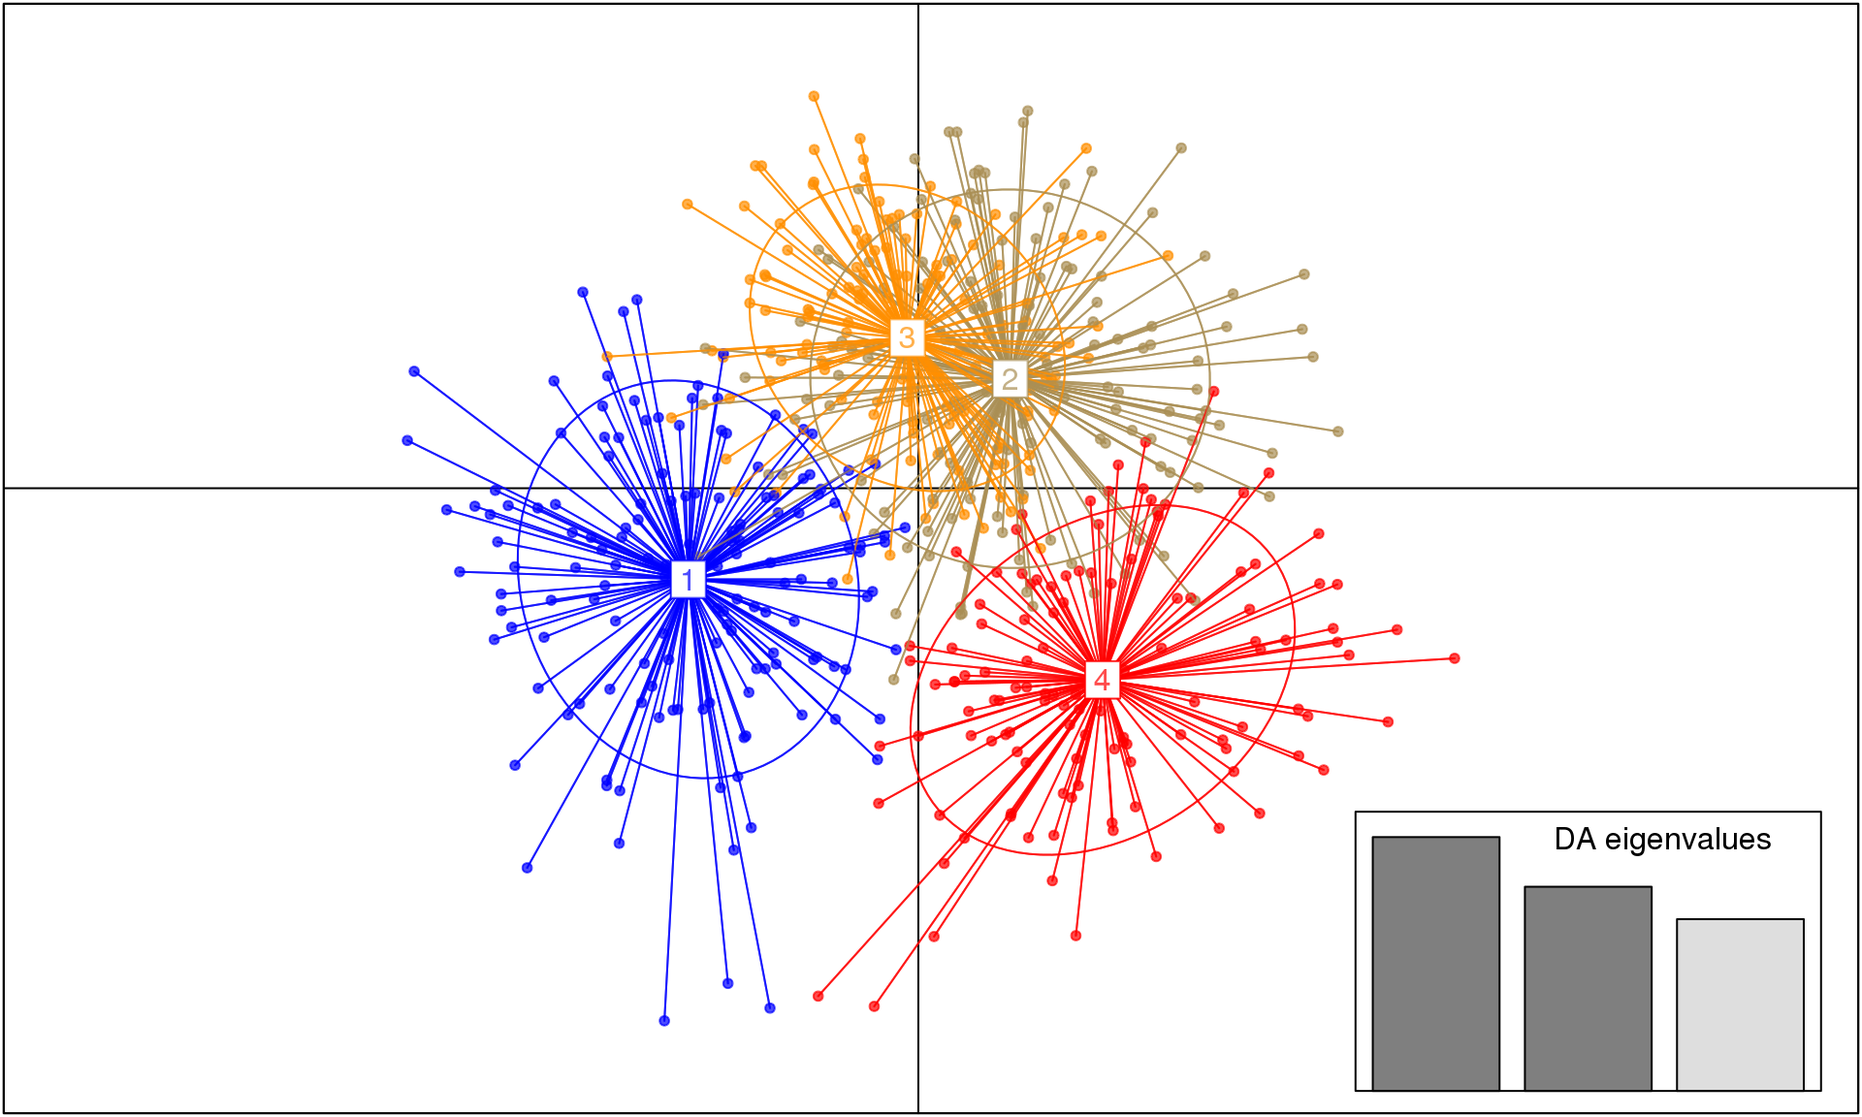
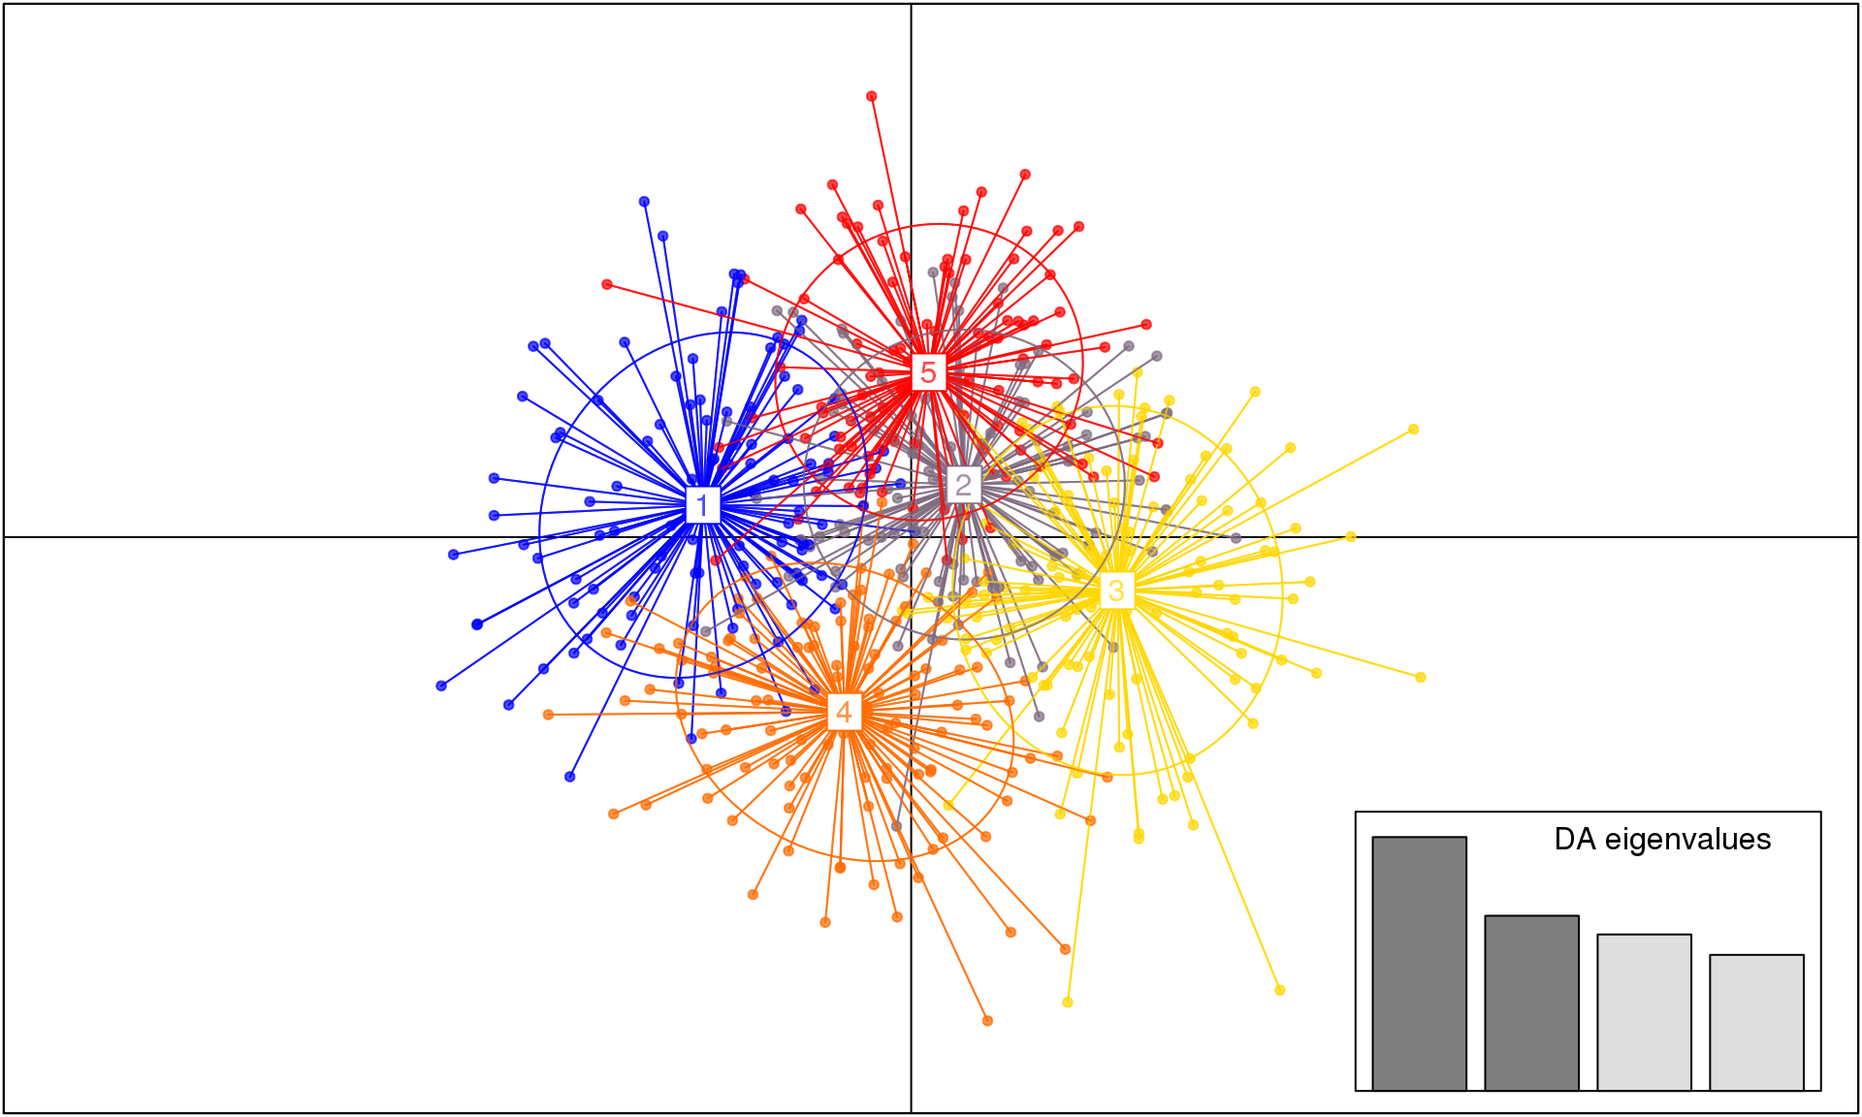
Website rebuild

Changed region(s): [[0.2188, 0.0625, 0.7812, 0.9062], [0.7812, 0.75, 0.9688, 1.0]]

diff --git a/DifferentiationSNP.html b/DifferentiationSNP.html
@@ -867,31 +867,31 @@ Mydata1</code></pre>
 ## county     0.00000000 0.00000000 0.01829604</code></pre>
 <pre class="sourceCode r"><code class="sourceCode r"><span class="kw">test.g</span>(loci, <span class="dt">level =</span> population) </code></pre>
 <pre><code>## $g.star
-##   [1] 218.4919 230.8764 244.1057 244.8471 194.1106 282.8481 194.4345
-##   [8] 208.0396 244.1157 218.6589 228.2380 226.1440 219.5991 218.8105
-##  [15] 219.9709 204.3986 260.9962 227.5928 186.0344 222.3399 226.0661
-##  [22] 227.3425 196.4752 221.0286 241.6681 210.1081 213.4373 202.3638
-##  [29] 176.9145 183.6085 240.7720 233.7284 192.4402 204.9190 186.3231
-##  [36] 225.4371 260.1888 226.8071 246.8908 222.9287 254.4683 241.7168
-##  [43] 211.9930 261.4128 197.7208 217.1632 232.8021 230.6632 217.6688
-##  [50] 212.3188 192.7864 220.7806 239.8266 187.9476 231.4353 193.5174
-##  [57] 207.4495 223.6204 216.4061 233.4522 247.9542 244.7583 213.5326
-##  [64] 208.5957 188.0424 210.1030 204.0779 193.5675 255.7895 226.1987
-##  [71] 221.9452 208.6933 215.6302 200.1285 246.9378 223.7031 239.4569
-##  [78] 210.2119 180.4820 230.7350 209.5883 192.0177 245.5034 199.0479
-##  [85] 218.4242 241.4489 223.2615 178.4197 222.6738 197.5080 225.0142
-##  [92] 219.6554 239.5684 215.6177 245.0495 288.0013 208.1600 256.3079
-##  [99] 213.9816 378.7654
+##   [1] 210.6819 262.0225 252.4853 197.6329 214.8009 225.9974 240.6693
+##   [8] 212.8468 207.0486 243.9517 228.9458 241.5535 186.4232 207.3275
+##  [15] 239.1997 219.8290 224.2966 225.8747 228.2805 215.4572 247.1074
+##  [22] 229.4891 234.2735 238.7481 235.6709 231.5572 227.8425 202.1868
+##  [29] 195.8581 248.5710 272.2962 186.8360 208.0480 204.5901 252.8045
+##  [36] 183.2651 227.1359 186.2249 224.5061 226.1237 230.7980 213.7526
+##  [43] 232.3383 231.0418 223.2885 253.6444 245.9737 207.0156 216.2436
+##  [50] 222.6524 209.6080 207.5072 171.6615 217.9410 232.0168 210.2264
+##  [57] 195.9379 242.1593 201.4827 226.2178 232.9992 216.1207 209.4023
+##  [64] 203.9137 210.2846 222.9443 248.6472 230.3976 214.7238 237.0655
+##  [71] 199.2135 210.5541 210.5565 219.0159 227.1251 210.2150 216.3828
+##  [78] 260.1976 225.9513 201.6088 232.3818 244.0187 273.9459 203.9056
+##  [85] 173.0109 192.0752 236.7822 193.6737 229.2017 212.9946 180.9627
+##  [92] 195.4552 215.6008 186.6413 238.9881 236.9864 235.9777 212.2787
+##  [99] 207.7703 378.7654
 ## 
 ## $p.val
 ## [1] 0.01</code></pre>
 <pre class="sourceCode r"><code class="sourceCode r"><span class="kw">test.between</span>(loci, <span class="dt">test.lev =</span> population, <span class="dt">rand.unit =</span> county, <span class="dt">nperm =</span> <span class="dv">30</span>) </code></pre>
 <pre><code>## $g.star
-##  [1] 255.9671 271.1631 252.3139 233.7541 255.3071 285.2955 249.2537
-##  [8] 261.6990 236.5355 265.4871 225.6696 217.9860 243.3172 236.3181
-## [15] 276.0550 258.7288 257.1334 288.1524 239.8817 267.7479 305.3150
-## [22] 229.4014 255.7952 234.9538 247.1080 258.1005 249.4763 271.7440
-## [29] 272.4077 378.7654
+##  [1] 235.8223 236.2609 279.9311 221.4776 242.6591 282.6271 297.4719
+##  [8] 308.4003 256.0027 259.8599 288.5656 285.9060 229.8528 293.5311
+## [15] 321.5757 276.0198 226.0107 263.3779 269.6993 241.3401 294.6467
+## [22] 265.5119 249.3911 288.8366 268.5281 253.8666 291.4539 236.1274
+## [29] 254.5242 378.7654
 ## 
 ## $p.val
 ## [1] 0.03333333</code></pre>
@@ -917,116 +917,116 @@ grp &lt;-<span class="st"> </span><span class="kw">find.clusters</span>(Mydata1,
 <pre><code>## [1] &quot;Kstat&quot; &quot;stat&quot;  &quot;grp&quot;   &quot;size&quot;</code></pre>
 <pre class="sourceCode r"><code class="sourceCode r">grp$grp</code></pre>
 <pre><code>##   1066   2040   4004   4005   4018   6009   6013   7033   7056   7069 
-##      4      3      1      1      4      3      1      1      2      3 
+##      1      5      3      5      1      2      3      3      4      2 
 ##   7088   7105   8001   8061   8068   8076   8120   8195   8203   8222 
-##      1      3      1      1      1      1      4      3      4      1 
+##      3      4      3      5      3      5      1      5      1      3 
 ##   8223   8231   8237   8301   8302   8303   8304   8305   8307   8308 
-##      1      3      3      1      3      3      3      1      3      3 
+##      3      3      2      3      5      2      5      3      2      2 
 ##   8309   8310   8313   8314   8316   8317   8318   8319   8320   8323 
-##      3      4      1      1      1      1      3      1      1      4 
+##      5      1      3      2      3      5      2      3      2      1 
 ##   8324   8327   8328   8329   8330   8332   8333   8334   8335   8336 
-##      4      1      1      1      1      3      3      3      4      2 
+##      1      3      3      2      5      5      5      1      1      5 
 ##   8337   8338   8339   8340   8342   8343   8344   8345   8346   8347 
-##      1      1      1      1      4      4      3      4      4      1 
+##      3      3      3      3      1      5      2      1      1      3 
 ##   8349   8350   8351   8352   8353   8354   8355   8356   8357   8358 
-##      1      1      4      3      1      1      4      3      4      4 
+##      3      3      2      5      3      3      1      2      1      2 
 ##   8364   8365   8366   8367   8368   8369   8370   8371   8372   8373 
-##      4      1      1      3      1      1      3      4      1      1 
+##      1      3      3      2      3      3      5      1      3      3 
 ##   8374   8375   8376   8377   8378   8379   8381   8382   8383   8384 
-##      1      1      4      4      3      3      1      1      4      2 
+##      3      3      1      1      5      5      3      3      3      4 
 ##   8385   8386   8387   8388   8389   8390   8391   8392   8393   8395 
-##      1      1      1      1      3      4      2      1      4      2 
+##      3      5      3      3      2      1      4      3      1      2 
 ##   8400   8402   8403   8559   8565   8567   8568   8569   8570   8571 
-##      1      1      1      4      3      3      3      4      1      4 
+##      3      2      2      1      2      2      5      1      3      1 
 ##   8572   8573   8574   8601   8602   8603   8604   8606   8607   8608 
-##      2      1      3      4      1      2      3      3      4      3 
+##      4      3      5      1      3      4      5      2      1      2 
 ##   8609   8610   8611   8613   8615   8616   8618   8619   8620   8621 
-##      3      2      1      3      2      3      1      2      4      2 
+##      5      4      3      5      2      5      3      5      2      2 
 ##   8622   8624   8626   8628   8629   8630   8631   8633   8634   8635 
-##      1      2      3      1      1      3      4      1      3      1 
+##      5      4      5      3      2      5      1      3      4      5 
 ##   8636   8637   8638   8639   8640   8641   8642   8643   8644   8645 
-##      3      1      3      3      1      3      3      2      1      2 
+##      1      5      2      2      4      2      5      2      5      4 
 ##   8646   8647   8648   8651   8652   8653   8654   8655   8656   8657 
-##      4      1      4      4      3      3      1      3      1      2 
+##      1      3      2      1      2      5      3      2      3      5 
 ##   8658   8659   8660   8661   8662   8663   8664   8667   8669   8670 
-##      4      3      3      3      2      4      2      3      3      1 
+##      5      5      2      2      4      1      4      5      5      3 
 ##   8671   8672   8673   8674   8675   8676   8677   8678   8679   8680 
-##      3      3      1      1      1      4      1      1      1      1 
+##      5      5      2      2      3      1      5      2      3      2 
 ##   8683   8685   8686   8687   8688   8689   8691   8692   8693   8694 
-##      1      2      4      2      4      3      4      4      4      3 
+##      3      4      1      2      1      5      1      1      2      2 
 ##   8695   8696   8697   8698   8699   8700   8701   8702   8703   8704 
-##      1      3      2      2      3      1      4      4      1      3 
+##      3      2      2      4      2      3      1      1      2      5 
 ##   8705   8706   9003   9006   9015  10005  11010  11503  11532  12008 
-##      2      1      1      3      2      1      4      1      2      3 
+##      4      3      5      5      4      5      1      2      3      2 
 ##  12012  14010  14015  22212  68087  68088  68090  68095  68130  68131 
-##      4      1      3      1      4      4      4      2      4      4 
+##      1      3      2      3      1      1      1      4      1      1 
 ##  68133  68134  68135   105A   108A   109B   110B   112C   115B   117B 
-##      1      4      3      2      4      1      4      3      4      1 
+##      5      1      5      4      1      3      1      5      5      3 
 ##   118B    11A   120A   121C   127A   128A   131B   132B   136C   138A 
-##      2      3      3      3      2      2      2      4      3      1 
+##      4      5      2      2      4      2      4      1      4      3 
 ##   139B   140B   141A   142B   144C   145A   146C   147A   149B   150A 
-##      2      2      3      2      2      1      4      2      2      1 
+##      4      4      2      4      4      3      1      2      4      3 
 ##   151A   152B   153B   154C   155B   156C   157A   158B    15A   162A 
-##      3      2      2      2      2      3      2      1      4      3 
+##      5      3      4      4      4      2      4      5      1      2 
 ##   166B    16A   171A   173A   174A    17C   188A   189A   190A   191A 
-##      4      3      3      3      4      3      4      3      2      2 
+##      1      5      2      2      1      5      1      2      3      4 
 ##    19A   205B    20A   212A   213A   217C   219A    21A   220A   224A 
-##      1      2      2      1      4      2      4      2      3      3 
+##      3      4      4      3      5      4      1      4      5      2 
 ##   226C   227C   234B   235A   238A    23A   245B   248A   250C   253A 
-##      4      1      4      2      2      2      1      1      1      1 
+##      1      3      2      4      4      4      2      5      3      5 
 ##   254C   257B   258A   260B   262A   264C   265A   268A   269A   270C 
-##      3      3      2      2      4      3      4      1      4      2 
+##      5      5      4      4      1      5      1      3      1      4 
 ##   271A   272B   275A   276B   277A    27A   281A   282B   283C   285C 
-##      2      1      2      3      3      3      4      2      4      3 
+##      2      3      4      1      5      5      1      4      1      5 
 ##   286B   287C   288C   289A   290C   291C   292C   298B   299C   300C 
-##      1      4      4      2      2      3      4      4      3      2 
+##      3      1      1      2      4      5      1      2      5      4 
 ##   302A   303C   305A   306A   307A   311A   316B   320C   322A   323B 
-##      2      3      2      4      2      3      1      2      1      2 
+##      4      2      4      1      2      4      3      4      3      4 
 ##   324A   326A   327A   328B   329B    32A   330A   331B   332C   334A 
-##      4      2      3      2      2      2      2      2      2      2 
+##      1      5      5      4      4      4      2      4      2      3 
 ##   335A   336A   339B   340A   341C   346A   349B    34A   351A   353C 
-##      3      1      2      2      3      4      3      2      2      1 
+##      5      2      4      4      2      1      5      4      3      3 
 ##   355A    35A   360B   361B   362C   365B   366A   368B   369A    36A 
-##      1      4      2      2      3      1      3      3      2      3 
+##      5      1      4      4      3      3      5      2      4      5 
 ##   370C   371B   372A   373B   375A   377B   378B   379B   382A   383C 
-##      2      1      4      1      2      4      2      1      4      2 
+##      3      1      1      5      3      1      2      2      1      4 
 ##   384A   385B   387A   388B   389A   390B   391C   392A   393C   395A 
-##      2      2      4      4      3      1      2      3      2      1 
+##      2      4      1      1      5      3      4      5      4      3 
 ##   397A   398C   400C   407A   408C   409B   410A   411C   412C   414A 
-##      2      4      3      3      3      3      4      3      2      2 
+##      4      1      2      4      2      2      1      5      2      4 
 ##   415A   416B   417A   418A   419B    41C   420B   421A   422B   423C 
-##      3      3      1      3      3      1      4      2      4      3 
+##      2      1      3      5      5      2      1      3      1      5 
 ##   424B   425B   426B   427C   428C   429B    42A   430B   431B   433B 
-##      3      4      1      4      3      3      2      3      3      4 
+##      2      1      3      1      2      5      2      5      5      1 
 ##   434B   435C   436A    43B   441C   442C   443C   448C   449A   450B 
-##      1      2      2      1      2      3      4      3      2      4 
+##      3      4      4      3      2      2      1      5      4      1 
 ##   451B   459A   461A   463A   469C   470A   471B   481A   483A   484A 
-##      4      2      2      3      1      2      2      4      4      3 
+##      2      4      4      5      5      4      3      1      1      5 
 ##   485A   486B   487C   489B    48B   492C   493A   496B   498B   499A 
-##      1      3      4      2      2      1      3      3      4      3 
+##      3      5      1      4      4      3      2      4      1      4 
 ##    49A   500B   501A   502C   514A   515A   519B   520B   526A   527B 
-##      2      1      2      2      2      4      2      1      1      1 
+##      4      2      4      2      4      1      4      5      2      4 
 ##   528C    52A   531A   532A   533A   534A   535C   536A   539A    53C 
-##      2      2      3      4      2      1      1      2      2      2 
+##      4      4      5      1      4      2      5      4      4      4 
 ##   540A   541A   542C   543C   544B   545A   546C   548C   549A    54C 
-##      1      2      4      2      1      1      4      4      1      3 
+##      3      4      1      4      2      4      1      1      3      5 
 ##   551C   552A   553B   554A   555C   556A   557B   558A   559A    55A 
-##      1      4      2      1      1      2      2      2      2      2 
+##      3      1      4      3      4      4      4      4      4      4 
 ##   561A   562A   563A   564B   565C   566B   568B   570A   571A   572C 
-##      3      2      2      2      1      1      4      4      2      3 
+##      5      4      4      4      2      3      5      1      4      2 
 ##   573C   574B   576A   577B   578B   579A    57A   580A   581C   600A 
-##      2      3      2      2      2      1      1      1      4      4 
+##      3      5      3      4      4      3      5      3      1      1 
 ##   601A   603A   605B   606B    60A   612C   613A   618A   619A    61A 
-##      3      3      3      4      1      3      4      2      2      4 
+##      5      2      5      1      3      2      1      4      2      1 
 ##   620C   621A   633B   634C   635A   636C   637B    63B   644B   645A 
-##      4      4      4      2      4      4      4      1      4      1 
+##      1      2      1      4      1      1      1      3      1      5 
 ##   646A    66A    67C    69A    73B    77B     7A    86C    89C    90C 
-##      4      2      1      3      1      2      3      3      3      2 
+##      1      2      4      5      3      3      2      5      5      4 
 ##    92A    93C    94C    97B    98A    99C     9A CRO108 CRO120 CRO121 
-##      2      2      2      1      1      2      2      2      3      3 
+##      4      4      4      3      3      4      4      4      2      2 
 ## CRO133 DF3364  FM406  FM417  FM428  FM442  FM445  S4PT6   SH13    SH7 
-##      3      4      3      3      4      1      2      4      4      1 
-## Levels: 1 2 3 4</code></pre>
+##      3      1      2      5      1      3      4      1      2      3 
+## Levels: 1 2 3 4 5</code></pre>
 <p>The K means procedure detected 5 groups. We will use this number of group in the discriminant analysis (function <code>dapc</code>). On your own dataset, you need to spend more time to estimate the number of cluster.</p>
 <pre class="sourceCode r"><code class="sourceCode r">dapc1 &lt;-<span class="st"> </span><span class="kw">dapc</span>(Mydata1, grp$grp, <span class="dt">n.pca =</span> <span class="dv">20</span>, <span class="dt">n.da =</span> <span class="dv">6</span>) 
 <span class="kw">scatter</span>(dapc1) <span class="co"># plot of the group</span></code></pre>

diff --git a/StartSNP.html b/StartSNP.html
@@ -381,17 +381,17 @@ Mydata3 &lt;-<span class="st"> </span><span class="kw">genind2loci</span>(Mydata
 ## 
 ## $fis.ci
 ##         ll      hl
-## 1  -0.0286  0.2728
-## 2  -0.0619  0.0431
-## 3   0.0008  0.0823
-## 4  -0.0484  0.0959
-## 5  -0.0472  0.0659
-## 6  -0.5261  0.1858
-## 7  -0.2676  0.1121
-## 8  -0.2258 -0.0706
-## 9  -0.1544  0.3469
-## 10  0.0286  0.3225
-## 11 -0.4117 -0.1354</code></pre>
+## 1  -0.0707  0.3302
+## 2  -0.0647  0.0444
+## 3   0.0063  0.0973
+## 4  -0.0465  0.1031
+## 5  -0.0488  0.0681
+## 6  -0.5117  0.2538
+## 7  -0.2540  0.1744
+## 8  -0.2058 -0.0427
+## 9  -0.1889  0.2708
+## 10  0.0251  0.3213
+## 11 -0.4166 -0.1249</code></pre>
 <pre class="sourceCode r"><code class="sourceCode r">x &lt;-<span class="st"> </span><span class="kw">indpca</span>(Mydata2) 
 <span class="kw">plot</span>(x, <span class="dt">cex=</span><span class="fl">0.7</span>)</code></pre>
 <p><img src="StartSNP_files/figure-html/basic_statistics-1.png" title="" alt="" width="960" /></p>
@@ -401,17 +401,17 @@ Mydata3 &lt;-<span class="st"> </span><span class="kw">genind2loci</span>(Mydata
 <p>We used the pegas package.</p>
 <pre class="sourceCode r"><code class="sourceCode r"><span class="kw">hw.test</span>(Mydata3, <span class="dt">B =</span> <span class="dv">1000</span>)</code></pre>
 <pre><code>##                      chi^2 df Pr(chi^2 &gt;) Pr.exact
-## X0.10037.01.257 0.75465490  1  0.38500645    0.466
-## X0.10040.02.394 0.16628227  1  0.68343723    0.730
-## X0.10044.01.392 2.96053195  1  0.08531987    0.067
-## X0.10048.01.60  6.39076800  1  0.01147154    0.008
-## X0.10051.02.166 1.12035389  1  0.28984227    0.299
-## X0.10054.01.402 1.54582494  1  0.21375285    0.215
-## X0.10067.03.111 0.04868128  1  0.82537403    0.536
-## X0.10079.02.168 0.01579313  1  0.89999259    0.584
+## X0.10037.01.257 0.75465490  1  0.38500645    0.470
+## X0.10040.02.394 0.16628227  1  0.68343723    0.757
+## X0.10044.01.392 2.96053195  1  0.08531987    0.087
+## X0.10048.01.60  6.39076800  1  0.01147154    0.010
+## X0.10051.02.166 1.12035389  1  0.28984227    0.305
+## X0.10054.01.402 1.54582494  1  0.21375285    0.236
+## X0.10067.03.111 0.04868128  1  0.82537403    0.554
+## X0.10079.02.168 0.01579313  1  0.89999259    0.573
 ## X0.10112.01.169 0.41126025  1  0.52133054    1.000
-## X0.10113.01.119 0.74248768  1  0.38886515    0.444
-## X0.10116.01.165 1.87098306  1  0.17136253    0.252</code></pre>
+## X0.10113.01.119 0.74248768  1  0.38886515    0.449
+## X0.10116.01.165 1.87098306  1  0.17136253    0.233</code></pre>
 <p>We get for each locus a test of significance of the null hypothesis: <span class="math">\(H_0\)</span> the locus is in HW equilibrium in the population. All but one locus are in HW equilibrium.</p>
 </div>
 </div>

diff --git a/package_basics.html b/package_basics.html
@@ -344,7 +344,7 @@ img {
 ## [1] &quot;~/R-dev&quot;
 ## 
 ## $devtools.revdep.libpath
-## [1] &quot;/tmp/RtmphDU3Q4/R-lib&quot;</code></pre>
+## [1] &quot;/tmp/RtmplpkC9o/R-lib&quot;</code></pre>
 <p>After looking at the documentation, we know that we want to change the values <code>devtools.desc.author</code>, <code>devtools.desc.license</code>, <code>devtools.name</code>. We will also add a “Maintainer” field to the DESCRIPTION file (tells users who to blame). The others don’t matter for now. We can add them in thusly (Note, I am using my name; you should obviously use your own):</p>
 <pre class="sourceCode r"><code class="sourceCode r">authors_at_r &lt;-<span class="st"> </span><span class="kw">paste0</span>(
   <span class="st">&quot;&#39;&quot;</span>,
@@ -383,7 +383,7 @@ img {
 ## [1] &quot;~/R-dev&quot;
 ## 
 ## $devtools.revdep.libpath
-## [1] &quot;/tmp/RtmphDU3Q4/R-lib&quot;</code></pre>
+## [1] &quot;/tmp/RtmplpkC9o/R-lib&quot;</code></pre>
 <blockquote>
 <p>It is much easier to edit the DESCRIPTION file by hand afterward. This simply demonstrates how you can get started.</p>
 </blockquote>

diff --git a/SummarySequenceData.html b/SummarySequenceData.html
@@ -345,10 +345,10 @@ myData1_HWE <span class="co"># p-values lower than 0.05 indicate deviations from
 <pre><code>## 
 ## Estimates for each locus
 ## Locus    Mean     95% CI
-## L1   0.2089  (0.1579-0.2879)
+## L1   0.1996  (0.1579-0.2704)
 ## 
 ## Global Estimate based on average heterozygosity
-## 0.2089   (0.1579-0.2879)</code></pre>
+## 0.1996   (0.1579-0.2704)</code></pre>
 <pre class="sourceCode r"><code class="sourceCode r"><span class="kw">summarise_bootstrap</span>(myData1_bs, Gst_Hedrick) <span class="co"># estimate Hedrick&#39;s Gst and whether or not it is significant</span></code></pre>
 <pre><code>## 
 ## Estimates for each locus

diff --git a/PopDiffSequenceData.html b/PopDiffSequenceData.html
@@ -272,7 +272,7 @@ populations &lt;-<span class="st"> </span><span class="kw">factor</span>(<span c
 ## 
 ## Variance components:
 ##            sigma2 P.value
-## groups 2.3344e-06  0.1881
+## groups 2.3344e-06  0.1782
 ## Error  3.6201e-05        
 ## 
 ## Variance coefficients:
